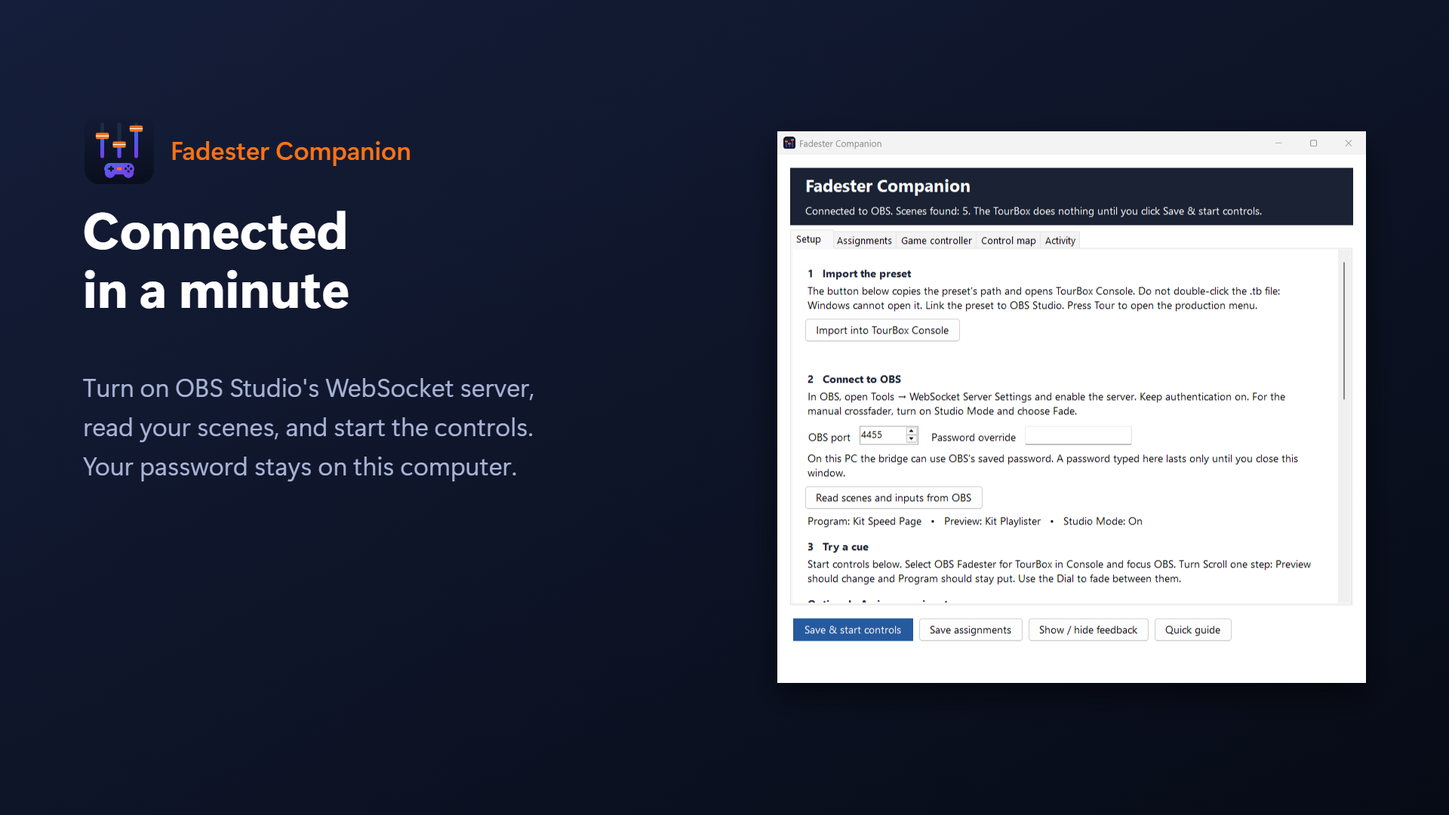
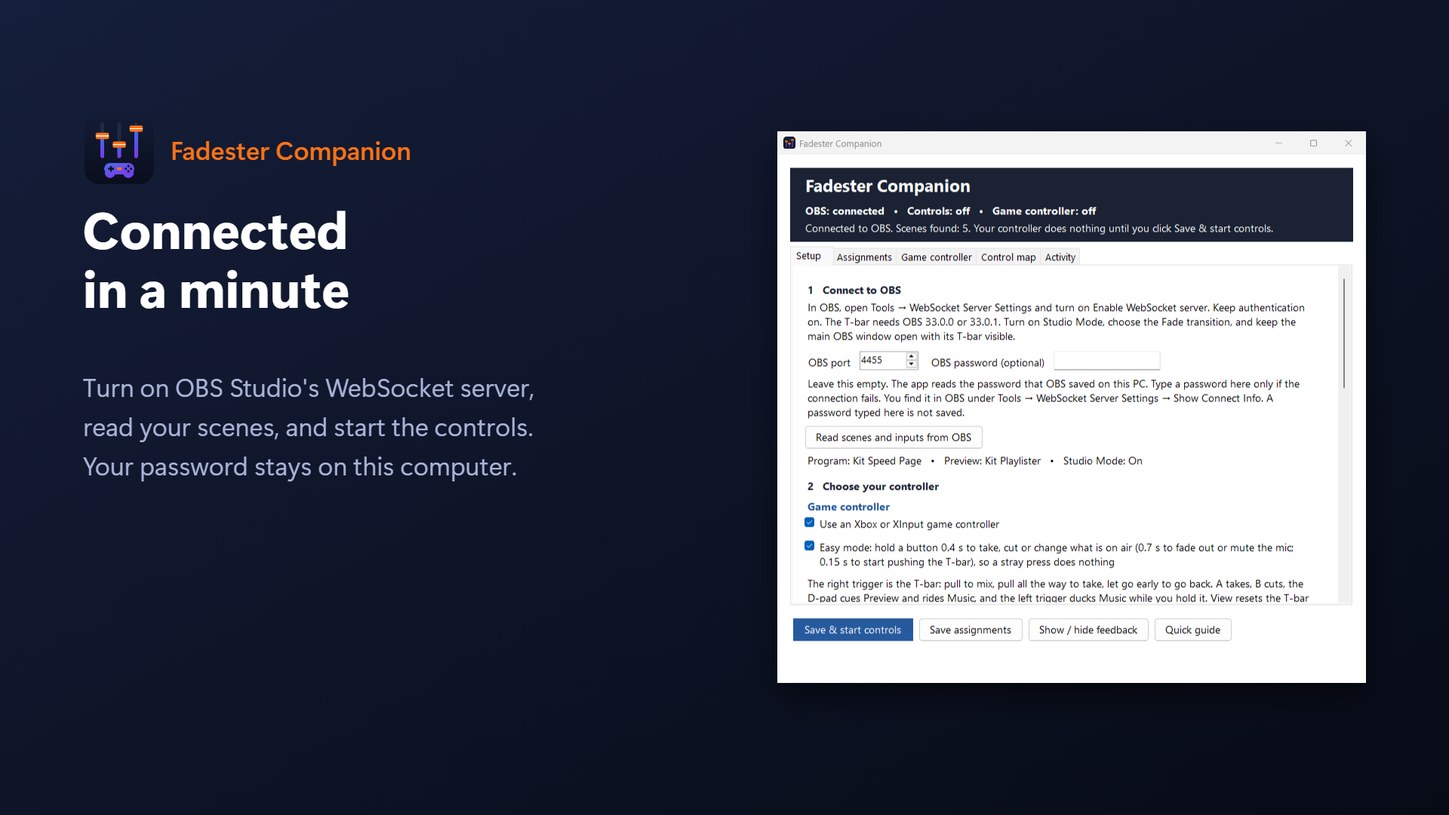
Companion 0.1.3: Setup tab starts with OBS and your controller
The game controller checkbox sat at the end of the Setup tab, after a
"Try a cue" step that only spoke of the TourBox, and Store users missed
it. Setup now reads in the order you act:

1 Connect to OBS
2 Choose your controller: a Game controller part (checkbox, Easy mode,
  hint) and a TourBox part (skip it without one; import button)
3 Try a cue: what to press on either device

Long check box labels now wrap to the page instead of running off it
(Easy mode was cut off). Texts in all ten languages (controllerTitle
new, importTitle gone, connectTitle renumbered, importHint and cueHint
rewritten), reviewed by Gemini 4 Argon. Guides, CHANGELOG and the four
Store screenshots follow (recaptured from the new panel).

Changed region(s): [[0.5312, 0.2444, 0.9375, 0.7639]]

diff --git a/tourbox/panel/PanelExtraText.cs b/tourbox/panel/PanelExtraText.cs
@@ -9,22 +9,22 @@ namespace Fadester.TourBox {
           { "alreadyOpen", "Fadester Companion ist bereits geöffnet. Prüfen Sie die Taskleiste." },
           { "lookingForObs", "Suche nach OBS auf diesem PC…" },
           { "setup", "Einrichtung" },
-          { "importTitle", "1   Preset importieren" },
-          { "importHint", "Die Schaltfläche unten kopiert den Pfad des Presets und öffnet die TourBox Console. Doppelklicken Sie die .tb-Datei nicht: Windows kann sie nicht öffnen. Verknüpfen Sie das Preset mit OBS Studio. Drücken Sie Tour, um das Produktionsmenü zu öffnen." },
+          { "importHint", "Ohne TourBox können Sie diesen Teil überspringen. Die Schaltfläche unten kopiert den Pfad des Presets und öffnet die TourBox Console. Doppelklicken Sie die .tb-Datei nicht: Windows kann sie nicht öffnen. Verknüpfen Sie das Preset mit OBS Studio. Drücken Sie Tour, um das Produktionsmenü zu öffnen." },
           { "openPreset", "In TourBox Console importieren" },
           { "importCopied", "Pfad kopiert. Klicken Sie in der TourBox Console oben in der Preset List auf Import, drücken Sie Strg+V und dann die Eingabetaste, und verknüpfen Sie das Preset mit OBS Studio. Um ein bereits importiertes Preset zu aktualisieren, wählen Sie es aus und nutzen Sie Import in seinem eigenen Menü." },
           { "importManual", "Der Pfad konnte nicht kopiert werden. Klicken Sie in der TourBox Console auf Import und öffnen Sie: {0}" },
           { "portsClash", "OBS-Port und VJster-Port dürfen nicht gleich sein. Der OBS-Port ist meist 4455: Prüfen Sie ihn in OBS unter Werkzeuge → WebSocket-Servereinstellungen." },
           { "obsReady", "Mit OBS verbunden. Gefundene Szenen: {0}. Ihr Controller tut nichts, bis Sie auf „Speichern & Steuerung starten“ klicken." },
           { "vjsterChrome", "VJster steuert YouTube nur in Chrome. Eine YouTube-Browserquelle in OBS lässt sich nicht steuern. Um das Video in OBS zu zeigen, fügen Sie eine Fensteraufnahme des Chrome-Fensters hinzu und lassen dieses Fenster geöffnet. Fügen Sie für den Ton eine Anwendungs-Audioaufnahme von Chrome hinzu." },
-          { "connectTitle", "2   Mit OBS verbinden" },
+          { "connectTitle", "1   Mit OBS verbinden" },
+          { "controllerTitle", "2   Controller wählen" },
           { "connectHint", "Öffnen Sie in OBS Werkzeuge → WebSocket-Servereinstellungen und aktivieren Sie „WebSocket-Server aktivieren“. Lassen Sie die Authentifizierung aktiviert. Der T-Bar braucht OBS 33.0.0 oder 33.0.1. Schalten Sie den Studiomodus ein, wählen Sie den Übergang Überblenden (Fade) und lassen Sie das OBS-Hauptfenster mit sichtbarem T-Bar geöffnet." },
           { "port", "OBS-Port" },
           { "password", "OBS-Passwort (optional)" },
           { "passwordHint", "Lassen Sie dieses Feld leer. Die App liest das Passwort, das OBS auf diesem PC gespeichert hat. Geben Sie hier nur dann ein Passwort ein, wenn die Verbindung fehlschlägt. Sie finden es in OBS unter Werkzeuge → WebSocket-Servereinstellungen → Verbindungsinformationen anzeigen. Ein hier eingegebenes Passwort wird nicht gespeichert." },
           { "discover", "Szenen und Eingänge aus OBS lesen" },
           { "cueTitle", "3   Übergang testen" },
-          { "cueHint", "Starten Sie unten die Steuerung. Wählen Sie OBS Fadester for TourBox in der Console und fokussieren Sie OBS. Drehen Sie Scroll um eine Stufe: Die Vorschau sollte wechseln, während das Programm unverändert bleibt. Nutzen Sie Dial zum Überblenden." },
+          { "cueHint", "Klicken Sie unten auf „Speichern & Steuerung starten“ und holen Sie OBS in den Vordergrund. Drücken Sie am Controller das Steuerkreuz nach unten, oder wählen Sie OBS Fadester for TourBox in der Console und drehen Sie Scroll um eine Stufe: Die Vorschau sollte wechseln, während das Programm unverändert bleibt. Ziehen Sie den rechten Trigger oder drehen Sie Dial zum Überblenden." },
           { "inputsTitle", "Optional   Eingänge zuweisen" },
           { "inputsHint", "Öffnen Sie Zuweisungen, um Musik, Inhalte und Szenen-Shortcuts festzulegen. Leere Zuweisungen haben keine Funktion." },
           { "mixTitle", "Optional   Alle OBS-Mixer-Eingänge blenden" },
@@ -140,22 +140,22 @@ namespace Fadester.TourBox {
           { "alreadyOpen", "Fadester Companion è già aperto. Controlla la barra delle applicazioni." },
           { "lookingForObs", "Ricerca di OBS su questo PC…" },
           { "setup", "Configurazione" },
-          { "importTitle", "1   Importa il preset" },
-          { "importHint", "Il pulsante qui sotto copia il percorso del preset e apre TourBox Console. Non fare doppio clic sul file .tb: Windows non può aprirlo. Collega il preset a OBS Studio. Premi Tour per aprire il menu di produzione." },
+          { "importHint", "Senza TourBox, salta questa parte. Il pulsante qui sotto copia il percorso del preset e apre TourBox Console. Non fare doppio clic sul file .tb: Windows non può aprirlo. Collega il preset a OBS Studio. Premi Tour per aprire il menu di produzione." },
           { "openPreset", "Importa in TourBox Console" },
           { "importCopied", "Percorso copiato. In TourBox Console, fai clic su Import in cima a Preset List, premi Ctrl+V e poi Invio, e collega il preset a OBS Studio. Per aggiornare un preset già importato, selezionalo e usa Import nel suo menu." },
           { "importManual", "Impossibile copiare il percorso. In TourBox Console, fai clic su Import e apri: {0}" },
           { "portsClash", "La porta OBS e la porta VJster non possono coincidere. La porta OBS di solito è 4455: controllala in OBS in Strumenti → Impostazioni del server WebSocket." },
           { "obsReady", "Connesso a OBS. Scene trovate: {0}. Il tuo controller non fa nulla finché non fai clic su Salva & avvia controlli." },
           { "vjsterChrome", "VJster controlla YouTube solo in Chrome. Una sorgente browser con YouTube in OBS non è controllabile. Per mostrare il video in OBS, aggiungi una cattura finestra di Chrome e tieni aperta quella finestra. Aggiungi una cattura audio applicazione di Chrome per il suono." },
-          { "connectTitle", "2   Connetti a OBS" },
+          { "connectTitle", "1   Connetti a OBS" },
+          { "controllerTitle", "2   Scegli il controller" },
           { "connectHint", "In OBS, apri Strumenti → Impostazioni del server WebSocket e attiva Abilita server WebSocket. Mantieni attiva l'autenticazione. Il T-bar richiede OBS 33.0.0 o 33.0.1. Attiva la Modalità studio, scegli la transizione Dissolvenza e tieni aperta la finestra principale di OBS con il T-bar visibile." },
           { "port", "Porta OBS" },
           { "password", "Password OBS (facoltativa)" },
           { "passwordHint", "Lascia vuoto questo campo. L'app legge la password che OBS ha salvato su questo PC. Inserisci qui una password solo se la connessione non riesce. La trovi in OBS in Strumenti → Impostazioni del server WebSocket → Mostra informazioni di connessione. Una password inserita qui non viene salvata." },
           { "discover", "Leggi scene e ingressi da OBS" },
           { "cueTitle", "3   Prova una transizione" },
-          { "cueHint", "Avvia i controlli qui sotto. Seleziona OBS Fadester for TourBox nella Console e porta OBS in primo piano. Ruota Scroll di uno scatto: l'Anteprima dovrebbe cambiare mentre il Programma resta invariato. Usa Dial per sfumare tra i due." },
+          { "cueHint", "Fai clic su Salva & avvia controlli qui sotto e porta OBS in primo piano. Premi il D-pad verso il basso sul controller, oppure seleziona OBS Fadester for TourBox nella Console e ruota Scroll di uno scatto: l'Anteprima dovrebbe cambiare mentre il Programma resta invariato. Tira il grilletto destro o ruota Dial per sfumare tra i due." },
           { "inputsTitle", "Opzionale   Assegna gli ingressi" },
           { "inputsHint", "Apri Assegnazioni per scegliere Musica, Contenuti e le scorciatoie delle scene. Le assegnazioni vuote non hanno effetto." },
           { "mixTitle", "Opzionale   Sfuma tutti gli ingressi del mixer OBS" },
@@ -271,22 +271,22 @@ namespace Fadester.TourBox {
           { "alreadyOpen", "Fadester Companion はすでに起動しています。タスクバーを確認してください。" },
           { "lookingForObs", "この PC で OBS を探しています…" },
           { "setup", "セットアップ" },
-          { "importTitle", "1   プリセットのインポート" },
-          { "importHint", "下のボタンでプリセットのパスをコピーし、TourBox Console を開きます。.tb ファイルをダブルクリックしないでください。Windows では開けません。プリセットを OBS Studio にリンクします。Tour を押すとプロダクションメニューが開きます。" },
+          { "importHint", "TourBox がない場合は、ここは飛ばしてください。下のボタンでプリセットのパスをコピーし、TourBox Console を開きます。.tb ファイルをダブルクリックしないでください。Windows では開けません。プリセットを OBS Studio にリンクします。Tour を押すとプロダクションメニューが開きます。" },
           { "openPreset", "TourBox Console にインポート" },
           { "importCopied", "パスをコピーしました。TourBox Console の Preset List 上部にある Import をクリックし、Ctrl+V、Enter の順に押して、プリセットを OBS Studio にリンクします。インポート済みのプリセットを更新するには、そのプリセットを選択し、専用メニューの Import を使ってください。" },
           { "importManual", "パスをコピーできませんでした。TourBox Console で Import をクリックし、次を開いてください: {0}" },
           { "portsClash", "OBS ポートと VJster ポートは同じにできません。OBS ポートは通常 4455 です。OBS の「ツール → WebSocket サーバー設定」で確認してください。" },
           { "obsReady", "OBS に接続しました。シーン数: {0}。「保存 & 開始」をクリックするまでコントローラーは動作しません。" },
           { "vjsterChrome", "VJster が操作できるのは Chrome の YouTube だけです。OBS の YouTube ブラウザソースは操作できません。OBS に動画を表示するには、Chrome ウィンドウのウィンドウキャプチャを追加し、そのウィンドウを開いたままにしてください。音声には Chrome のアプリケーション音声キャプチャを追加してください。" },
-          { "connectTitle", "2   OBS への接続" },
+          { "connectTitle", "1   OBS への接続" },
+          { "controllerTitle", "2   コントローラーの選択" },
           { "connectHint", "OBS の「ツール」→「WebSocket サーバー設定」を開き、「WebSocket サーバーを有効にする」をオンにします。認証はオンのままにしてください。T バーには OBS 33.0.0 または 33.0.1 が必要です。スタジオモードを有効にして「フェード」トランジションを選び、OBS のメインウィンドウを開いたまま T バーが見えるようにしてください。" },
           { "port", "OBS ポート" },
           { "password", "OBS パスワード（任意）" },
           { "passwordHint", "空欄のままにしてください。アプリは OBS がこの PC に保存したパスワードを読み取ります。接続に失敗した場合にのみ、ここにパスワードを入力してください。パスワードは OBS の「ツール」→「WebSocket サーバー設定」→「接続情報を表示」で確認できます。ここに入力したパスワードは保存されません。" },
           { "discover", "OBS からシーンと入力を取得" },
           { "cueTitle", "3   キューを試す" },
-          { "cueHint", "下のコントロールを開始します。Console で OBS Fadester for TourBox を選択し、OBS にフォーカスを合わせます。Scroll を 1 ステップ回すと、プログラムはそのままでプレビューが切り替わります。Dial を使って 2 つの間をフェードします。" },
+          { "cueHint", "下の「保存 & 開始」をクリックし、OBS を前面に表示します。コントローラーの十字キーの下を押すか、Console で OBS Fadester for TourBox を選択して Scroll を 1 ステップ回すと、プログラムはそのままでプレビューが切り替わります。右トリガーを引くか Dial を回して、2 つの間をフェードします。" },
           { "inputsTitle", "オプション   入力の割り当て" },
           { "inputsHint", "「割り当て」を開いて、音楽、コンテンツ、シーンのショートカットを選択します。未割り当ての項目は何も動作しません。" },
           { "mixTitle", "オプション   全 OBS ミキサー入力の一括フェード" },
@@ -402,22 +402,22 @@ namespace Fadester.TourBox {
           { "alreadyOpen", "Fadester Companion이 이미 실행 중입니다. 작업 표시줄을 확인하세요." },
           { "lookingForObs", "이 PC에서 OBS를 찾는 중…" },
           { "setup", "설정" },
-          { "importTitle", "1   프리셋 가져오기" },
-          { "importHint", "아래 버튼을 누르면 프리셋 경로가 복사되고 TourBox Console이 열립니다. .tb 파일을 더블 클릭하지 마세요. Windows에서는 열 수 없습니다. 프리셋을 OBS Studio에 연결하세요. Tour 버튼을 누르면 프로덕션 메뉴가 열립니다." },
+          { "importHint", "TourBox가 없으면 이 부분은 건너뛰세요. 아래 버튼을 누르면 프리셋 경로가 복사되고 TourBox Console이 열립니다. .tb 파일을 더블 클릭하지 마세요. Windows에서는 열 수 없습니다. 프리셋을 OBS Studio에 연결하세요. Tour 버튼을 누르면 프로덕션 메뉴가 열립니다." },
           { "openPreset", "TourBox Console로 가져오기" },
           { "importCopied", "경로를 복사했습니다. TourBox Console의 Preset List 위쪽에서 Import를 클릭하고 Ctrl+V, Enter를 차례로 누른 뒤 프리셋을 OBS Studio에 연결하세요. 이미 가져온 프리셋을 업데이트하려면 해당 프리셋을 선택하고 자체 메뉴의 Import를 사용하세요." },
           { "importManual", "경로를 복사할 수 없습니다. TourBox Console에서 Import를 클릭하고 다음을 여세요: {0}" },
           { "portsClash", "OBS 포트와 VJster 포트는 같을 수 없습니다. OBS 포트는 보통 4455입니다. OBS의 도구 → WebSocket 서버 설정에서 확인하세요." },
           { "obsReady", "OBS에 연결되었습니다. 찾은 장면: {0}개. 저장 & 컨트롤 시작을 클릭할 때까지 컨트롤러는 작동하지 않습니다." },
           { "vjsterChrome", "VJster는 Chrome의 YouTube만 제어합니다. OBS의 YouTube 브라우저 소스는 제어할 수 없습니다. OBS에 동영상을 표시하려면 Chrome 창의 윈도우 캡처를 추가하고 그 창을 열어 두세요. 소리는 Chrome의 애플리케이션 오디오 캡처를 추가하세요." },
-          { "connectTitle", "2   OBS에 연결" },
+          { "connectTitle", "1   OBS에 연결" },
+          { "controllerTitle", "2   컨트롤러 선택" },
           { "connectHint", "OBS에서 도구 → WebSocket 서버 설정을 열고 'WebSocket 서버 활성화'를 켜세요. 인증은 켜진 상태로 유지하세요. T바를 쓰려면 OBS 33.0.0 또는 33.0.1이 필요합니다. 스튜디오 모드를 켜고 '페이드' 전환을 선택한 뒤, OBS 기본 창을 T바가 보이도록 열어 두세요." },
           { "port", "OBS 포트" },
           { "password", "OBS 비밀번호(선택)" },
           { "passwordHint", "비워 두세요. 앱이 이 PC에 OBS가 저장한 비밀번호를 읽습니다. 연결에 실패할 때만 여기에 비밀번호를 입력하세요. 비밀번호는 OBS의 도구 → WebSocket 서버 설정 → 연결 정보 표시에서 확인할 수 있습니다. 여기에 입력한 비밀번호는 저장되지 않습니다." },
           { "discover", "OBS에서 장면 및 입력 불러오기" },
           { "cueTitle", "3   큐 테스트" },
-          { "cueHint", "아래에서 컨트롤을 시작하세요. Console에서 OBS Fadester for TourBox를 선택하고 OBS 창을 활성화하세요. Scroll을 한 칸 돌리면 프로그램은 그대로 유지되고 미리보기만 바뀝니다. Dial을 사용해 두 장면 사이를 페이드하세요." },
+          { "cueHint", "아래의 저장 & 컨트롤 시작을 클릭하고 OBS 창을 앞으로 가져오세요. 컨트롤러의 십자키 아래를 누르거나, Console에서 OBS Fadester for TourBox를 선택하고 Scroll을 한 칸 돌리면 프로그램은 그대로 유지되고 미리보기만 바뀝니다. 오른쪽 트리거를 당기거나 Dial을 돌려 두 장면 사이를 페이드하세요." },
           { "inputsTitle", "선택 사항   입력 지정" },
           { "inputsHint", "'할당'을 열어 음악, 콘텐츠 및 장면 단축키를 선택하세요. 비어 있는 항목은 아무 동작도 하지 않습니다." },
           { "mixTitle", "선택 사항   모든 OBS 믹서 입력 페이드" },
@@ -533,22 +533,22 @@ namespace Fadester.TourBox {
           { "alreadyOpen", "Fadester Companion уже запущен. Проверьте панель задач." },
           { "lookingForObs", "Поиск OBS на этом ПК…" },
           { "setup", "Настройка" },
-          { "importTitle", "1   Импортируйте пресет" },
-          { "importHint", "Кнопка ниже копирует путь к пресету и открывает TourBox Console. Не открывайте файл .tb двойным щелчком: Windows не умеет его открывать. Привяжите пресет к OBS Studio. Нажмите Tour, чтобы открыть рабочее меню." },
+          { "importHint", "Если у вас нет TourBox, пропустите эту часть. Кнопка ниже копирует путь к пресету и открывает TourBox Console. Не открывайте файл .tb двойным щелчком: Windows не умеет его открывать. Привяжите пресет к OBS Studio. Нажмите Tour, чтобы открыть рабочее меню." },
           { "openPreset", "Импорт в TourBox Console" },
           { "importCopied", "Путь скопирован. В TourBox Console нажмите Import над Preset List, затем Ctrl+V и Enter, и привяжите пресет к OBS Studio. Чтобы обновить уже импортированный пресет, выберите его и используйте Import в его собственном меню." },
           { "importManual", "Не удалось скопировать путь. В TourBox Console нажмите Import и откройте: {0}" },
           { "portsClash", "Порт OBS и порт VJster не могут совпадать. Обычно порт OBS — 4455: проверьте его в OBS в меню «Инструменты → Настройки сервера WebSocket»." },
           { "obsReady", "Подключено к OBS. Найдено сцен: {0}. Контроллер не работает, пока вы не нажмёте «Сохранить & запустить»." },
           { "vjsterChrome", "VJster управляет только YouTube в Chrome. Источником «Браузер» с YouTube в OBS управлять нельзя. Чтобы показать видео в OBS, добавьте захват окна Chrome и держите это окно открытым. Для звука добавьте захват звука приложения Chrome." },
-          { "connectTitle", "2   Подключитесь к OBS" },
+          { "connectTitle", "1   Подключитесь к OBS" },
+          { "controllerTitle", "2   Выберите контроллер" },
           { "connectHint", "В OBS откройте «Инструменты» → «Настройки сервера WebSocket» и включите «Включить сервер WebSocket». Оставьте аутентификацию включённой. Для T-bar нужен OBS 33.0.0 или 33.0.1. Включите Режим студии, выберите переход «Затухание» (Fade) и держите главное окно OBS открытым, чтобы T-bar был виден." },
           { "port", "Порт OBS" },
           { "password", "Пароль OBS (необязательно)" },
           { "passwordHint", "Оставьте поле пустым. Приложение читает пароль, который OBS сохранил на этом ПК. Вводите пароль здесь, только если подключиться не удаётся. Пароль можно найти в OBS: «Инструменты» → «Настройки сервера WebSocket» → «Показать сведения о подключении». Введённый здесь пароль не сохраняется." },
           { "discover", "Получить сцены и входы из OBS" },
           { "cueTitle", "3   Проверьте в деле" },
-          { "cueHint", "Запустите управление ниже. Выберите OBS Fadester for TourBox в Console и переключитесь на окно OBS. Поверните Scroll на один шаг: Предпросмотр должен смениться, а Программа — остаться прежней. Используйте Dial для плавного перехода между ними." },
+          { "cueHint", "Нажмите «Сохранить & запустить» внизу и выведите OBS на передний план. Нажмите крестовину вниз на геймпаде или выберите OBS Fadester for TourBox в Console и поверните Scroll на один шаг: Предпросмотр должен смениться, а Программа — остаться прежней. Потяните правый триггер или поверните Dial для плавного перехода между ними." },
           { "inputsTitle", "Дополнительно   Назначьте входы" },
           { "inputsHint", "Откройте «Назначения», чтобы выбрать музыку, контент и быстрые переходы к сценам. Пустые поля ничего не меняют." },
           { "mixTitle", "Дополнительно   Фейд всех входов микшера OBS" },
@@ -664,22 +664,22 @@ namespace Fadester.TourBox {
           { "alreadyOpen", "Fadester Companion 已經開啟，請檢查工作列。" },
           { "lookingForObs", "正在此電腦上尋找 OBS…" },
           { "setup", "設定" },
-          { "importTitle", "1   匯入預設集" },
-          { "importHint", "下方按鈕會複製預設集路徑並開啟 TourBox Console。請勿按兩下 .tb 檔案：Windows 無法開啟它。將預設集連結至 OBS Studio。按下 Tour 可開啟導播選單。" },
+          { "importHint", "沒有 TourBox 可略過這一部分。下方按鈕會複製預設集路徑並開啟 TourBox Console。請勿按兩下 .tb 檔案：Windows 無法開啟它。將預設集連結至 OBS Studio。按下 Tour 可開啟導播選單。" },
           { "openPreset", "匯入到 TourBox Console" },
           { "importCopied", "已複製路徑。在 TourBox Console 中，按一下 Preset List 上方的 Import，按 Ctrl+V，再按 Enter，然後將預設集連結至 OBS Studio。若要更新已匯入的預設集，請選取它並使用其自身選單中的 Import。" },
           { "importManual", "無法複製路徑。在 TourBox Console 中按一下 Import 並開啟：{0}" },
           { "portsClash", "OBS 連接埠和 VJster 連接埠不能相同。OBS 連接埠通常是 4455：請在 OBS 的「工具 → WebSocket 伺服器設定」中查看。" },
           { "obsReady", "已連線至 OBS。找到 {0} 個場景。按一下「儲存 & 啟動控制」之前，控制器不會有任何反應。" },
           { "vjsterChrome", "VJster 只能控制 Chrome 中的 YouTube。OBS 中的 YouTube 瀏覽器來源無法控制。若要在 OBS 中顯示影片，請新增 Chrome 視窗的視窗擷取，並保持該視窗開啟。請新增 Chrome 的應用程式音訊擷取以取得聲音。" },
-          { "connectTitle", "2   連線至 OBS" },
+          { "connectTitle", "1   連線至 OBS" },
+          { "controllerTitle", "2   選擇控制器" },
           { "connectHint", "在 OBS 中開啟「工具」→「WebSocket 伺服器設定」，勾選「啟用 WebSocket 伺服器」，並保持啟用身分驗證。T-bar 需要 OBS 33.0.0 或 33.0.1。請開啟「工作室模式」，將轉場設為「淡出」(Fade)，並保持 OBS 主視窗開啟且 T-bar 可見。" },
           { "port", "OBS 連接埠" },
           { "password", "OBS 密碼（選填）" },
           { "passwordHint", "請留空。本應用程式會讀取 OBS 在此電腦上儲存的密碼。只有在連線失敗時，才需要在此輸入密碼。密碼可在 OBS 的「工具」→「WebSocket 伺服器設定」→「顯示連線資訊」中找到。於此處輸入的密碼不會儲存。" },
           { "discover", "從 OBS 讀取場景與輸入" },
           { "cueTitle", "3   測試轉場控制" },
-          { "cueHint", "在下方啟動控制。於 Console 中選取 OBS Fadester for TourBox 並切換至 OBS 視窗。轉動 Scroll 一格：「預覽」應該會變更，而「節目」保持不變。使用 Dial 在兩者之間淡入淡出。" },
+          { "cueHint", "按一下下方的「儲存 & 啟動控制」，然後將 OBS 移至前景。按下控制器十字鍵的下鍵，或於 Console 中選取 OBS Fadester for TourBox 並轉動 Scroll 一格：「預覽」應該會變更，而「節目」保持不變。扣右扳機或轉動 Dial 可在兩者之間淡入淡出。" },
           { "inputsTitle", "選用   指派音訊輸入與場景" },
           { "inputsHint", "開啟「指派設定」以選擇音樂、內容音訊及場景快速鍵。留空的項目不會執行任何動作。" },
           { "mixTitle", "選用   淡化所有 OBS 混音器輸入" },

diff --git a/tourbox/panel/PanelText.cs b/tourbox/panel/PanelText.cs
@@ -22,15 +22,15 @@ namespace Fadester.TourBox {
         "Fadester Companion 已打开。请查看任务栏。" } },
       { "lookingForObs", new[] { "Looking for OBS on this PC…", "Buscando OBS en este equipo…", "Recherche d’OBS sur ce PC…", "正在此电脑上查找 OBS…" } },
       { "setup", new[] { "Setup", "Configuración", "Configuration", "设置" } },
-      { "importTitle", new[] { "1   Import the preset", "1   Importa el preajuste", "1   Importer le préréglage", "1   导入预设" } },
-      { "importHint", new[] { "The button below copies the preset’s path and opens TourBox Console. Do not double-click the .tb file: Windows cannot open it. Link the preset to OBS Studio. Press Tour to open the production menu.", "El botón de abajo copia la ruta del preajuste y abre TourBox Console. No hagas doble clic en el archivo .tb: Windows no puede abrirlo. Vincula el preajuste a OBS Studio. Pulsa Tour para abrir el menú de producción.", "Le bouton ci-dessous copie le chemin du préréglage et ouvre TourBox Console. Ne double-cliquez pas sur le fichier .tb : Windows ne peut pas l’ouvrir. Associez le préréglage à OBS Studio. Appuyez sur Tour pour ouvrir le menu de production.", "下方按钮会复制预设路径并打开 TourBox Console。不要双击 .tb 文件：Windows 无法打开它。将预设关联到 OBS Studio。按 Tour 键可打开制作菜单。" } },
+      { "importHint", new[] { "Skip this part if you have no TourBox. The button below copies the preset’s path and opens TourBox Console. Do not double-click the .tb file: Windows cannot open it. Link the preset to OBS Studio. Press Tour to open the production menu.", "Sin TourBox, omite esta parte. El botón de abajo copia la ruta del preajuste y abre TourBox Console. No hagas doble clic en el archivo .tb: Windows no puede abrirlo. Vincula el preajuste a OBS Studio. Pulsa Tour para abrir el menú de producción.", "Sans TourBox, passez cette partie. Le bouton ci-dessous copie le chemin du préréglage et ouvre TourBox Console. Ne double-cliquez pas sur le fichier .tb : Windows ne peut pas l’ouvrir. Associez le préréglage à OBS Studio. Appuyez sur Tour pour ouvrir le menu de production.", "没有 TourBox 可跳过这一部分。下方按钮会复制预设路径并打开 TourBox Console。不要双击 .tb 文件：Windows 无法打开它。将预设关联到 OBS Studio。按 Tour 键可打开制作菜单。" } },
       { "openPreset", new[] { "Import into TourBox Console", "Importar en TourBox Console", "Importer dans TourBox Console", "导入到 TourBox Console" } },
       { "importCopied", new[] { "Path copied. In TourBox Console, click Import at the top of Preset List, press Ctrl+V, then Enter, and link the preset to OBS Studio. To update a preset you already imported, select it and use Import in its own menu instead.", "Ruta copiada. En TourBox Console, haz clic en Import arriba de Preset List, pulsa Ctrl+V y luego Intro, y vincula el preajuste a OBS Studio. Para actualizar un preajuste ya importado, selecciónalo y usa Import en su propio menú.", "Chemin copié. Dans TourBox Console, cliquez sur Import en haut de Preset List, appuyez sur Ctrl+V, puis sur Entrée, et associez le préréglage à OBS Studio. Pour mettre à jour un préréglage déjà importé, sélectionnez-le et utilisez Import dans son propre menu.", "路径已复制。在 TourBox Console 中，点击 Preset List 顶部的 Import，按 Ctrl+V，再按 Enter，然后将预设关联到 OBS Studio。要更新已导入的预设，请选中它并使用其自身菜单中的 Import。" } },
       { "importManual", new[] { "The path could not be copied. In TourBox Console, click Import and open: {0}", "No se pudo copiar la ruta. En TourBox Console, haz clic en Import y abre: {0}", "Impossible de copier le chemin. Dans TourBox Console, cliquez sur Import et ouvrez : {0}", "无法复制路径。在 TourBox Console 中点击 Import 并打开：{0}" } },
       { "portsClash", new[] { "The OBS port and the VJster port cannot be the same. The OBS port is usually 4455: check it in OBS under Tools → WebSocket Server Settings.", "El puerto de OBS y el de VJster no pueden ser el mismo. El de OBS suele ser 4455: compruébalo en OBS, en Herramientas → Ajustes del servidor WebSocket.", "Le port OBS et le port VJster ne peuvent pas être identiques. Le port OBS est généralement 4455 : vérifiez-le dans OBS, sous Outils → Paramètres du serveur WebSocket.", "OBS 端口和 VJster 端口不能相同。OBS 端口通常是 4455：请在 OBS 的「工具 → WebSocket 服务器设置」中查看。" } },
       { "obsReady", new[] { "Connected to OBS. Scenes found: {0}. Your controller does nothing until you click Save & start controls.", "Conexión con OBS establecida. Escenas encontradas: {0}. Tu controlador no hará nada hasta que hagas clic en Guardar e iniciar.", "Connexion à OBS établie. Scènes trouvées : {0}. Votre contrôleur ne fera rien tant que vous n’aurez pas cliqué sur Enregistrer et démarrer.", "已连接 OBS。找到 {0} 个场景。点击「保存并启动控制」之前，控制器不会有任何反应。" } },
       { "vjsterChrome", new[] { "VJster controls YouTube in Chrome only. A YouTube browser source in OBS cannot be controlled. To show the video in OBS, add a Window Capture of the Chrome window and keep that window open. Add an Application Audio Capture of Chrome for its sound.", "VJster solo controla YouTube en Chrome. Una fuente de navegador con YouTube en OBS no se puede controlar. Para mostrar el vídeo en OBS, añade una captura de ventana de Chrome y mantén esa ventana abierta. Añade una captura de audio de aplicación de Chrome para el sonido.", "VJster ne contrôle YouTube que dans Chrome. Une source navigateur YouTube dans OBS ne peut pas être contrôlée. Pour afficher la vidéo dans OBS, ajoutez une capture de la fenêtre Chrome et gardez cette fenêtre ouverte. Ajoutez une capture audio d’application de Chrome pour le son.", "VJster 只能控制 Chrome 中的 YouTube。OBS 中的 YouTube 浏览器源无法控制。要在 OBS 中显示视频，请添加 Chrome 窗口的窗口采集，并保持该窗口打开。请添加 Chrome 的应用程序音频采集以获取声音。" } },
-      { "connectTitle", new[] { "2   Connect to OBS", "2   Conecta con OBS", "2   Se connecter à OBS", "2   连接 OBS" } },
+      { "connectTitle", new[] { "1   Connect to OBS", "1   Conecta con OBS", "1   Se connecter à OBS", "1   连接 OBS" } },
+      { "controllerTitle", new[] { "2   Choose your controller", "2   Elige tu controlador", "2   Choisir un contrôleur", "2   选择控制器" } },
       { "connectHint", new[] { "In OBS, open Tools → WebSocket Server Settings and turn on Enable WebSocket server. Keep authentication on. The T-bar needs OBS 33.0.0 or 33.0.1. Turn on Studio Mode, choose the Fade transition, and keep the main OBS window open with its T-bar visible.", "En OBS, abre Herramientas → Ajustes del servidor WebSocket y activa Habilitar servidor WebSocket. Mantén activa la autenticación. El T-bar necesita OBS 33.0.0 o 33.0.1. Activa el modo Estudio, elige la transición Desvanecimiento y mantén abierta la ventana principal de OBS con su T-bar visible.", "Dans OBS, ouvrez Outils → Paramètres du serveur WebSocket et cochez Activer le serveur WebSocket. Laissez l’authentification activée. Le T-bar nécessite OBS 33.0.0 ou 33.0.1. Activez le mode Studio, choisissez la transition Fondu et gardez la fenêtre principale d’OBS ouverte avec son T-bar visible.", "在 OBS 中打开「工具 → WebSocket 服务器设置」，勾选「启用 WebSocket 服务器」。保持身份验证开启。T-bar 需要 OBS 33.0.0 或 33.0.1。请启用工作室模式，选择「淡入淡出」转场，并保持 OBS 主窗口打开且 T-bar 可见。" } },
       { "port", new[] { "OBS port", "Puerto de OBS", "Port OBS", "OBS 端口" } },
       { "password", new[] { "OBS password (optional)", "Contraseña de OBS (opcional)", "Mot de passe OBS (facultatif)", "OBS 密码（可选）" } },
@@ -38,10 +38,10 @@ namespace Fadester.TourBox {
       { "discover", new[] { "Read scenes and inputs from OBS", "Leer escenas y entradas de OBS", "Lire les scènes et entrées d’OBS", "从 OBS 读取场景和输入" } },
       { "cueTitle", new[] { "3   Try a cue", "3   Prueba una escena", "3   Essayer une scène", "3   试切一个场景" } },
       { "cueHint", new[] {
-        "Start controls below. Select OBS Fadester for TourBox in Console and focus OBS. Turn Scroll one step: Preview should change and Program should stay put. Use the Dial to fade between them.",
-        "Inicia los controles abajo. Selecciona OBS Fadester for TourBox en Console y vuelve a OBS. Gira Scroll un paso. La vista previa debería cambiar mientras la salida permanece igual. Usa Dial para hacer la transición.",
-        "Démarrez les commandes ci-dessous. Sélectionnez OBS Fadester for TourBox dans Console, puis revenez dans OBS. Tournez Scroll d’un cran. L’aperçu doit changer et le programme rester fixe. Utilisez Dial pour faire un fondu.",
-        "在下方启动控制。在 Console 中选择 OBS Fadester for TourBox，然后切回 OBS。将 Scroll 转动一格，预览应切换而节目画面保持不变。转动 Dial 可在两者之间淡入淡出。" } },
+        "Click Save & start controls below and bring OBS to the front. Press D-pad down on the controller, or select OBS Fadester for TourBox in Console and turn Scroll one step: Preview should change and Program should stay put. Pull the right trigger or turn the Dial to fade between them.",
+        "Haz clic en Guardar e iniciar abajo y pon OBS en primer plano. Pulsa la cruceta hacia abajo en el mando, o selecciona OBS Fadester for TourBox en Console y gira Scroll un paso: la vista previa debería cambiar mientras el programa permanece igual. Tira del gatillo derecho o gira Dial para fundir entre ambos.",
+        "Cliquez sur Enregistrer et démarrer ci-dessous, puis mettez OBS au premier plan. Appuyez sur le bas du pavé directionnel de la manette, ou sélectionnez OBS Fadester for TourBox dans Console et tournez Scroll d’un cran : l’aperçu doit changer et le programme rester fixe. Tirez la gâchette droite ou tournez Dial pour faire un fondu entre les deux.",
+        "点击下方的「保存并启动控制」，然后将 OBS 置于前台。按手柄方向键的下键，或在 Console 中选择 OBS Fadester for TourBox 并将 Scroll 转动一格：预览应切换而节目保持不变。扣右扳机或转动 Dial 可在两者之间淡入淡出。" } },
       { "inputsTitle", new[] { "Optional   Assign your inputs", "Opcional   Asigna tus entradas", "Facultatif   Affecter les entrées", "可选   分配输入" } },
       { "inputsHint", new[] {
         "Open Assignments to pick Music, Content and your scene shortcuts. Empty assignments do nothing.",

diff --git a/tourbox/panel/FadesterTourBox.cs b/tourbox/panel/FadesterTourBox.cs
@@ -141,8 +141,8 @@ namespace Fadester.TourBox {
       state=new Label {Text=text.Get("lookingForObs"),Location=new Point(16,70),AutoEllipsis=true,UseMnemonic=false,ForeColor=Color.White, Width=680,Anchor=AnchorStyles.Left|AnchorStyles.Right|AnchorStyles.Top}; head.Controls.Add(state); grid.Controls.Add(head,0,0);
       head.ClientSizeChanged+=delegate { state.Width=status.Width=Math.Max(1,head.ClientSize.Width-32); };
       var tabs=new TabControl {Dock=DockStyle.Fill}; grid.Controls.Add(tabs,0,1);
-      body=Page(tabs,text.Get("setup")); Title(body,text.Get("importTitle")); Hint(body,text.Get("importHint"));
-      AddButton(body,text.Get("openPreset"),delegate { ImportPreset(); }); importNote=Hint(body,"");
+      // Setup reads in the order a newcomer acts: OBS, then the controller in hand, then a first cue with it.
+      body=Page(tabs,text.Get("setup"));
       Title(body,text.Get("connectTitle")); Hint(body,text.Get("connectHint"));
       var row=new FlowLayoutPanel {AutoSize=true,WrapContents=true,Margin=new Padding(0,3,0,3)};
       row.Controls.Add(new Label {Text=text.Get("port"), AutoSize=true,Margin=new Padding(4,8,4,0)});
@@ -151,7 +151,16 @@ namespace Fadester.TourBox {
       password=new TextBox {UseSystemPasswordChar=true,Width=142}; row.Controls.Add(password); body.Controls.Add(row);
       Hint(body,text.Get("passwordHint"));
       connect=AddButton(body,text.Get("discover"),async delegate { await Connect(); });
-      live=Hint(body,""); Title(body,text.Get("cueTitle"));
+      live=Hint(body,"");
+      Title(body,text.Get("controllerTitle"));
+      SubTitle(body,text.Get("gamepadTitle"));
+      enableGamepad=Check(body,text.Get("enableGamepad"));
+      easyMode=Check(body,text.Get("gamepadEasy")); easyMode.Checked=true;
+      Hint(body,text.Get("gamepadHint"));
+      SubTitle(body,"TourBox");
+      Hint(body,text.Get("importHint"));
+      AddButton(body,text.Get("openPreset"),delegate { ImportPreset(); }); importNote=Hint(body,"");
+      Title(body,text.Get("cueTitle"));
       Hint(body,text.Get("cueHint"));
       Title(body,text.Get("inputsTitle")); Hint(body,text.Get("inputsHint"));
       Title(body,text.Get("mixTitle"));
@@ -171,10 +180,6 @@ namespace Fadester.TourBox {
       vjRow.Controls.Add(new Label {Text=text.Get("vjsterExtensionId"),AutoSize=true,Margin=new Padding(10,8,4,0)});
       extensionId=new TextBox {Width=290}; vjRow.Controls.Add(extensionId); body.Controls.Add(vjRow);
       Hint(body,text.Get("vjsterIdHint"));
-      Title(body,text.Get("gamepadTitle"));
-      enableGamepad=Check(body,text.Get("enableGamepad"));
-      easyMode=Check(body,text.Get("gamepadEasy")); easyMode.Checked=true;
-      Hint(body,text.Get("gamepadHint"));
       Hint(body,text.Get("keepOpen"));
       var assign=Page(tabs,text.Get("assignments")); Title(assign,text.Get("assignTitle"));
       Hint(assign,text.Get("assignHint"));
@@ -234,11 +239,20 @@ namespace Fadester.TourBox {
       var f=new FlowLayoutPanel {Dock=DockStyle.Fill,AutoScroll=true,WrapContents=false,FlowDirection=FlowDirection.TopDown,Padding=new Padding(12),BackColor=Color.White}; p.Controls.Add(f); return f;
     }
     void Title(FlowLayoutPanel f,string s) { f.Controls.Add(new Label {Text=s,AutoSize=true,Font=new Font(Font,FontStyle.Bold),ForeColor=navy,Margin=new Padding(3,10,3,2)}); }
+    /** A part of a numbered step, such as the game controller or the TourBox in step 2. */
+    void SubTitle(FlowLayoutPanel f,string s) { f.Controls.Add(new Label {Text=s,AutoSize=true,UseMnemonic=false,Font=new Font(Font,FontStyle.Bold),ForeColor=accent,Margin=new Padding(3,6,3,0)}); }
     Label Hint(FlowLayoutPanel f,string s) { var l=new Label {Text=s,UseMnemonic=false,AutoSize=true,MaximumSize=new Size(650,0),Margin=new Padding(3,2,3,5)}; f.Controls.Add(l); f.ClientSizeChanged+=delegate {l.MaximumSize=new Size(Math.Max(235,f.ClientSize.Width-42),0);}; return l; }
     CheckBox Check(FlowLayoutPanel f,string label) {
-      var check=new CheckBox {Text=label,AutoSize=true,UseMnemonic=false,MaximumSize=new Size(650,0)};
+      // An auto-sized check box never wraps its text (a long one ran off the page), so it is sized to the page and wraps.
+      var check=new CheckBox {Text=label,AutoSize=false,UseMnemonic=false,TextAlign=ContentAlignment.TopLeft,CheckAlign=ContentAlignment.TopLeft};
       f.Controls.Add(check);
-      f.ClientSizeChanged+=delegate {check.MaximumSize=new Size(Math.Max(235,f.ClientSize.Width-42),0);};
+      Action fit=delegate {
+        int width=Math.Max(235,f.ClientSize.Width-42);
+        int box=Math.Max(0,check.GetPreferredSize(Size.Empty).Width-TextRenderer.MeasureText(label,check.Font).Width);
+        var text=TextRenderer.MeasureText(label,check.Font,new Size(Math.Max(1,width-box),0),TextFormatFlags.WordBreak);
+        check.Size=new Size(Math.Min(width,text.Width+box),text.Height+6);
+      };
+      fit(); f.ClientSizeChanged+=delegate { fit(); };
       return check;
     }
     Label FieldLabel(string label) {

diff --git a/docs/gamepad/README.md b/docs/gamepad/README.md
@@ -8,7 +8,7 @@ Drive OBS from an Xbox controller (or any XInput-compatible pad): the right trig
 
 1. Plug in the controller (USB or Xbox Wireless). Windows needs no extra driver.
 2. In OBS, open **Tools → WebSocket Server Settings**, tick **Enable WebSocket server**, keep **Enable Authentication** ticked, and click **OK**.
-3. Install **Fadester Companion** from the [Microsoft Store](https://apps.microsoft.com/detail/9PN7D3P2X7F4) and open it from the Start menu ([setup guide](../../tourbox/README.md); without a TourBox, skip **1 Import the preset**). It connects to OBS by itself; if the header names a problem, do what it says and click **Read scenes and inputs from OBS** on the **Setup** tab. Tick **Use an Xbox or XInput game controller** under **Game controller**. Leave **Easy mode** ticked.
+3. Install **Fadester Companion** from the [Microsoft Store](https://apps.microsoft.com/detail/9PN7D3P2X7F4) and open it from the Start menu ([setup guide](../../tourbox/README.md)). It connects to OBS by itself; if the header names a problem, do what it says and click **Read scenes and inputs from OBS** on the **Setup** tab. Under **2 Choose your controller**, tick **Use an Xbox or XInput game controller** and leave **Easy mode** ticked. Without a TourBox, skip the TourBox part.
 4. Press **Save & start controls** and keep the companion window open (minimised is fine; closing it stops the controls). The status line at the top says *Game controller: connected*.
 5. In OBS 33.0.0 or 33.0.1, with the main window open, turn on **Studio Mode**, select the **Fade** transition, and choose a different scene for Preview.
 6. Pull the right trigger halfway: OBS's T-bar follows. Let go: it goes back. Pull it all the way: Preview goes to Program.

diff --git a/tourbox/README.md b/tourbox/README.md
@@ -8,7 +8,7 @@ Fadester Companion lets you mix OBS Studio scenes on Windows with an Xbox or oth
 
 1. Install **Fadester Companion** from the [Microsoft Store](https://apps.microsoft.com/detail/9PN7D3P2X7F4) and open it from the Start menu. If you use the ZIP, extract all of it into a folder you want to keep and open **Fadester for TourBox.exe**.
 2. In OBS, open **Tools → WebSocket Server Settings**, turn on **Enable WebSocket server**, keep **Enable Authentication** on, and click **OK**. The companion connects by itself with the password OBS saved on this PC: the header says it is connected and how many scenes it found. If it names a problem instead, do what it says, then click **Read scenes and inputs from OBS**.
-3. On the **Setup** tab, tick **Use an Xbox or XInput game controller** (under **Game controller**, at the end of the tab) and keep **Easy mode** ticked. You do not need the TourBox steps.
+3. On the **Setup** tab, under **2 Choose your controller**, tick **Use an Xbox or XInput game controller** and keep **Easy mode** ticked. Skip the TourBox part below it.
 4. Click **Save & start controls**. The status line at the top says *Controls: on* and *Game controller: connected*. Keep the window open: closing it stops the controls.
 5. In OBS 33.0.0 or 33.0.1, turn on **Studio Mode**, select the **Fade** transition, and keep the main OBS window open with its T-bar visible.
 6. Press D-pad down to put the next scene in Preview.

diff --git a/CHANGELOG.md b/CHANGELOG.md
@@ -5,6 +5,7 @@ What changed in Fadester for OBS and, where it says so, in VJster. The format fo
 ## Unreleased
 
 - **Fadester Companion is on the Microsoft Store.** Install it from [its Store page](https://apps.microsoft.com/detail/9PN7D3P2X7F4), and Windows keeps it up to date. The README, the VJster install page and the Companion and game controller guides link to it; the two guides open with a "Get it from Microsoft" badge.
+- **Fadester Companion 0.1.3: the Setup tab starts with your controller.** It now reads in the order you act: **1 Connect to OBS**, **2 Choose your controller** (tick the game controller, or import the TourBox preset), **3 Try a cue**, which says what to press on either. The game controller checkbox used to sit at the end of the tab, after the cue step, and was easy to miss.
 
 ## 0.11.0 - 2026-11-10
 
